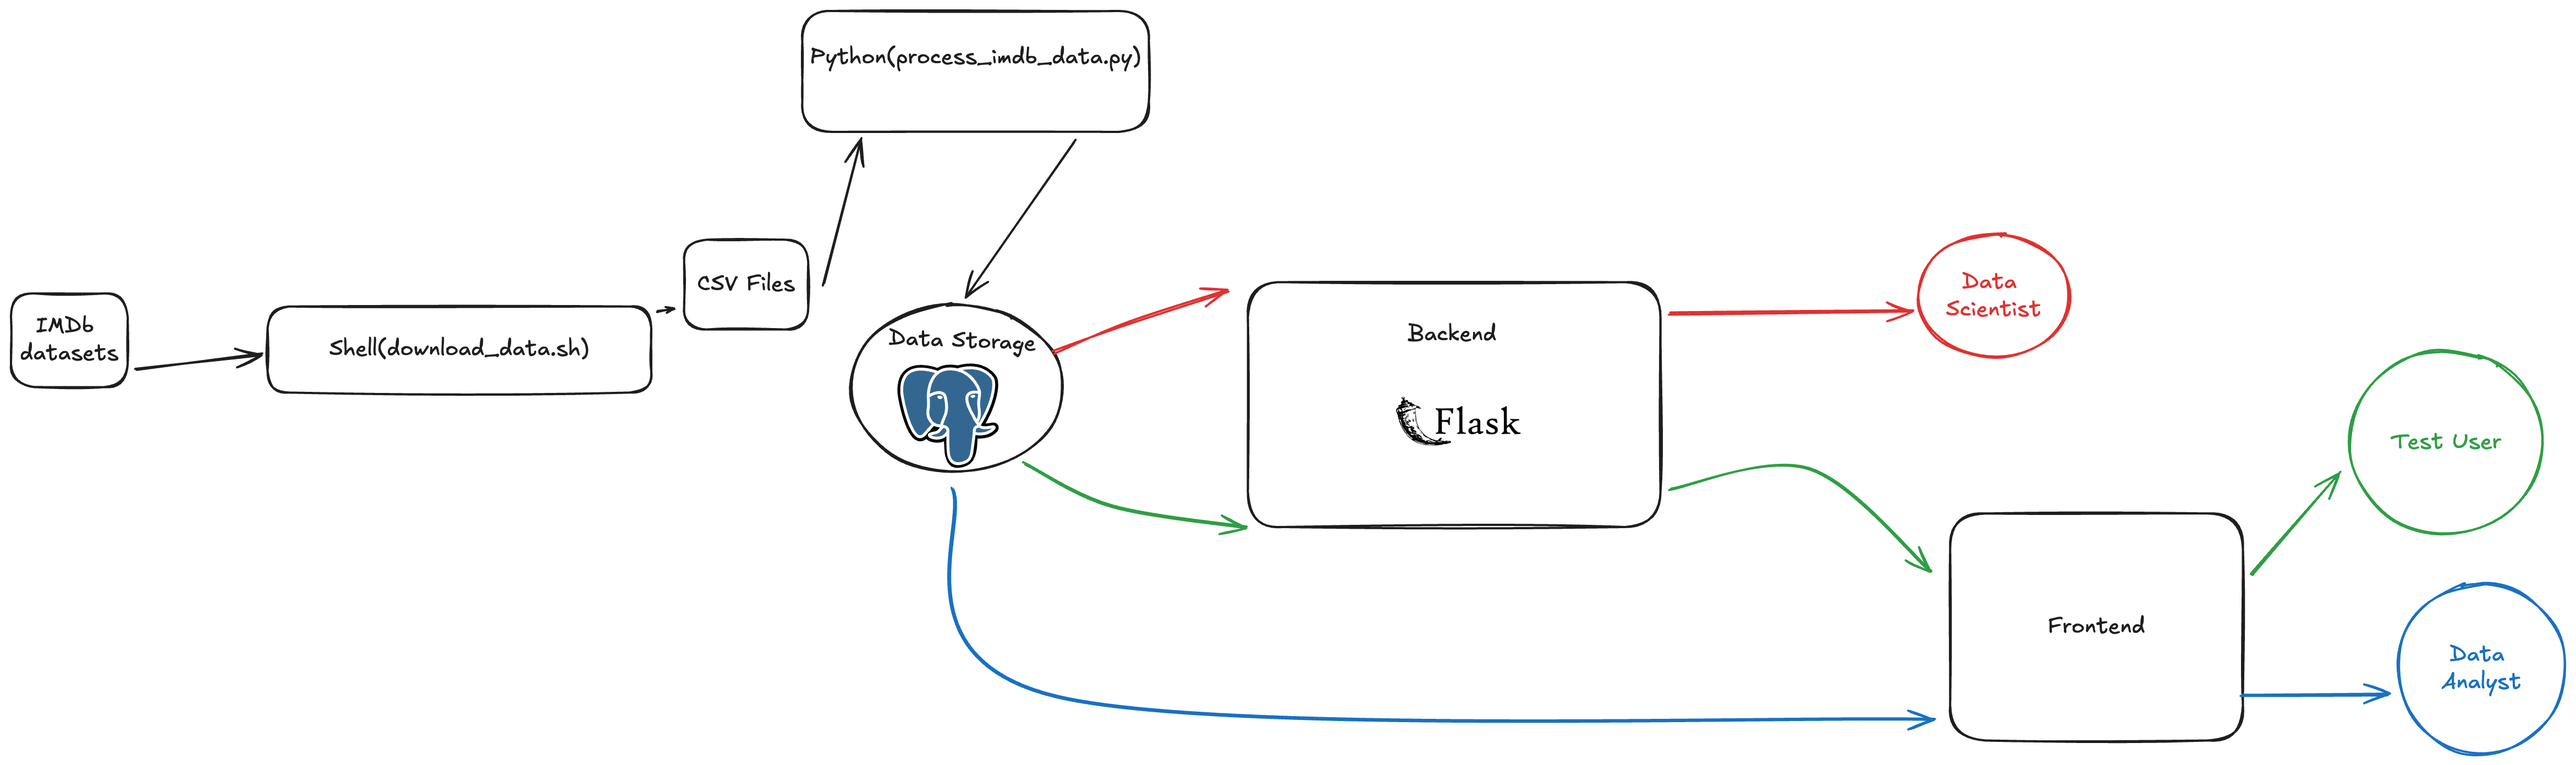
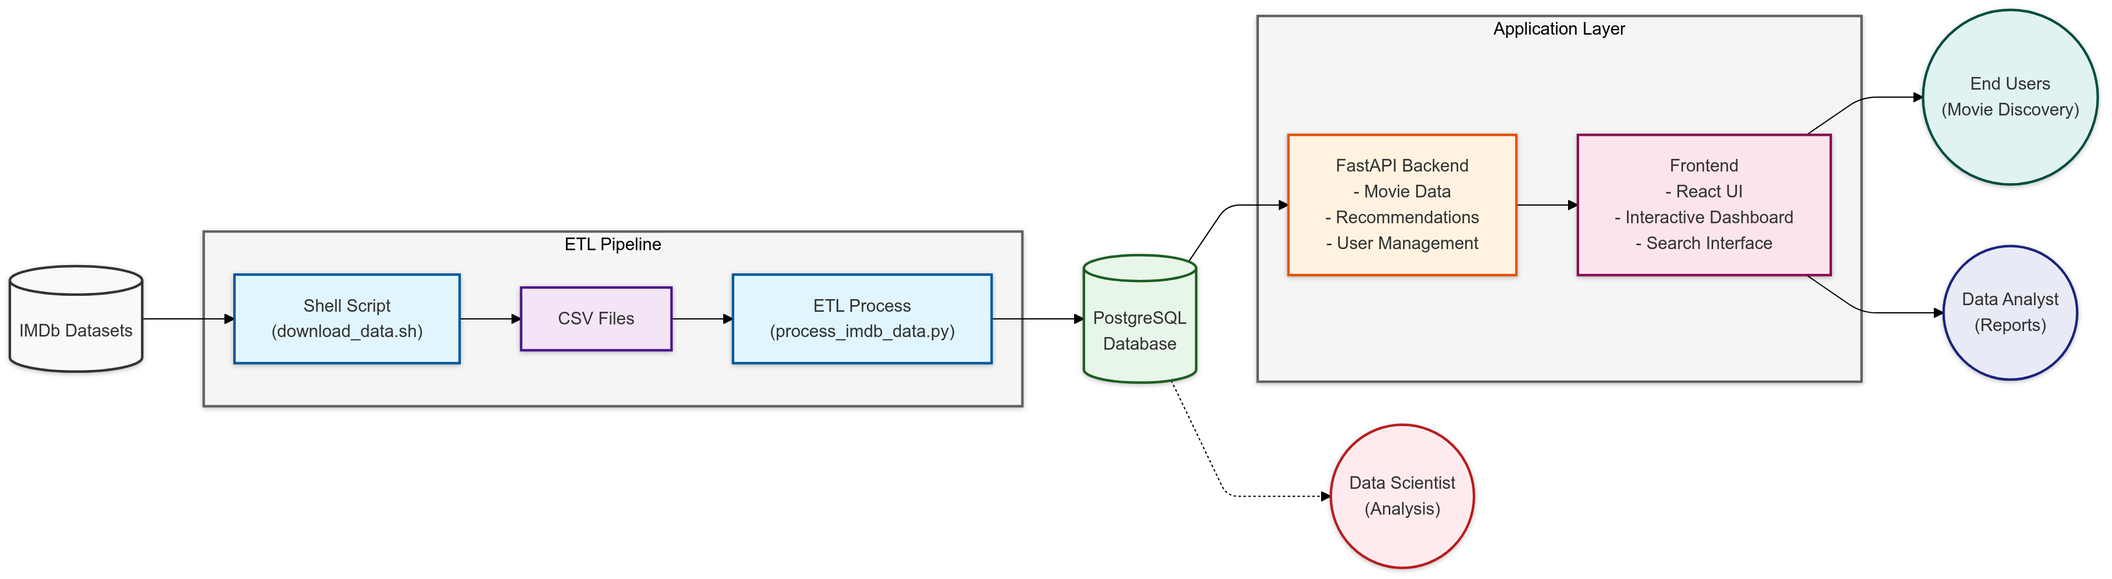
docs: improve architecture diagram clarity and structure
- Replace basic diagram with detailed Mermaid flowchart
- Add distinct component groupings for ETL and Application layers
- Include detailed component descriptions with proper line breaks
- Use consistent styling and color coding for visual hierarchy
- Add clear data flow indicators between components
- Differentiate user types and their interaction paths
- Improve visual separation of data processing and application layers

diff --git a/README.md b/README.md
@@ -53,18 +53,21 @@ This project implements a Netflix-like recommender system using Python, FastAPI,
 ## Installation
 
 1. **Clone the Repository:**
+
    ```bash
    git clone https://github.com/vytautas-bunevicius/recommendation-engine.git
    cd recommendation-engine
    ```
 
 2. **Set Up a Virtual Environment:**
+
    ```bash
    python3 -m venv venv
    source venv/bin/activate  # On Windows, use `venv\Scripts\activate`
    ```
 
 3. **Install the Project:**
+
    ```bash
    # Install the project and its dependencies
    pip install -e .
@@ -184,7 +187,7 @@ This project implements a Netflix-like recommender system using Python, FastAPI,
 
    The frontend UI is served by the FastAPI server. Open your web browser and navigate to:
 
-   ```
+   ```plaintext
    http://localhost:8000/
    ```
 
@@ -243,6 +246,7 @@ The AWS RDS PostgreSQL database includes the following main tables:
 - `movie_ratings`: Store movie ratings
 
 **Indexes:**
+
 - Multiple indexes are created to improve query performance, such as on movie titles, user IDs, viewing dates, and more.
 
 For the complete schema, refer to `src/database/schema.sql`.
@@ -282,7 +286,7 @@ For detailed AWS RDS setup instructions, refer to the [AWS RDS Documentation](ht
 
 ## Testing
 
-_Comprehensive tests are not yet implemented._
+*Comprehensive tests are not yet implemented.*
 
 To run tests (once implemented):
 
@@ -297,6 +301,7 @@ python -m unittest discover tests
 1. **Empty `movies` Table:**
    - **Symptom:** Error during viewing history generation stating no movies found.
    - **Solution:** Ensure that IMDb data has been processed and the `movies` table is populated before running the user data generation script.
+
      ```bash
      python3 scripts/process_imdb_data.py
      ```
@@ -320,12 +325,14 @@ python -m unittest discover tests
 
 - **User Data Generation Logs:**
   Check the `user_data_generation.log` file for detailed logs and error messages.
+
   ```bash
   tail -f user_data_generation.log
   ```
 
 - **Data Processing Logs:**
   Check the `data_processing.log` file for insights into data processing steps.
+
   ```bash
   tail -f data_processing.log
   ```
